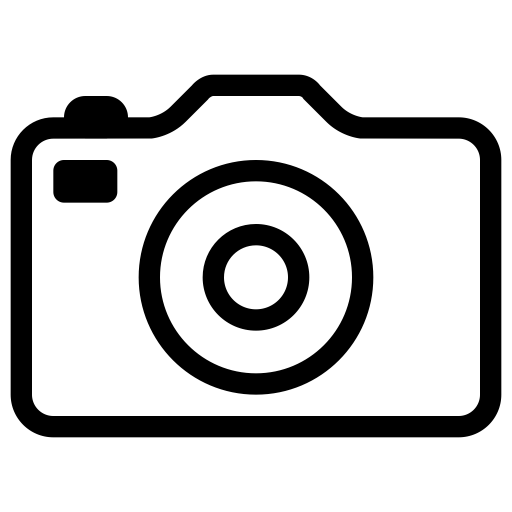
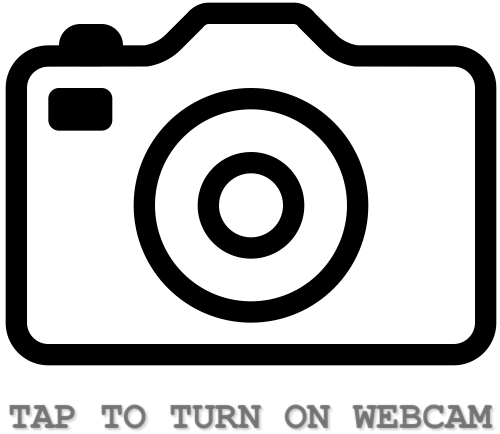
home

diff --git a/views/js/cam.js b/views/js/cam.js
@@ -5,15 +5,18 @@ function getWebcam() {
 
         navigator.mediaDevices.getUserMedia({video: true}).then(function (stream) {
             video.srcObject = stream;
-            // document.getElementsByClassName('camera')[0].remove();
+            document.getElementsByClassName('nowebcam')[0].setAttribute('style', 'display: none');
             document.getElementsByClassName('camera')[0].setAttribute('style', 'display: none');
             document.getElementById('video').setAttribute('style', 'display: block');
+            let snap = document.getElementById('snap');
             setTimeout(() =>
-                document.getElementById('snap')
-                    .setAttribute('style', 'display: inline-block'),1200);
+                snap.setAttribute('style', 'display: inline-block'),1200);
             setTimeout(() =>
                 document.getElementById('back')
                     .setAttribute('style', 'display: inline-block'),1200);
+            let images = document.getElementsByClassName('workplace')[0].getElementsByClassName('mask');
+            if (!images.length)
+                snap.disabled = true;
             video.play();
         })
     }
@@ -23,10 +26,11 @@ function turnOffWebCam() {
     let video = document.getElementById('video');
     video.srcObject.getTracks().forEach(track => track.stop());
 
+    document.getElementsByClassName('nowebcam')[0].setAttribute('style', 'display: inline-block');
     document.getElementById('video').setAttribute('style', 'display: none');
     document.getElementsByClassName('camera')[0].setAttribute('style', 'display: inline-block');
-    document.getElementById('snap').setAttribute('style', 'display: none')
-    document.getElementById('back').setAttribute('style', 'display: none')
+    document.getElementById('snap').setAttribute('style', 'display: none');
+    document.getElementById('back').setAttribute('style', 'display: none');
 
     let images = document.getElementsByClassName('workplace')[0].getElementsByClassName('mask');
     if (images.length > 0)

diff --git a/views/css/styles.css b/views/css/styles.css
@@ -34,7 +34,8 @@ a:hover { transition: 220ms; color: lightgray }
 /*smooth start effect ot choosen elements*/
 #temp_preview { animation: fade-in 0.7s linear }
 
-.menu, .enter_menu, .settings_menu, .tooltip, .avatar, .error, .message, .pic, .avatar_preview, #snap {
+.menu, .enter_menu, .settings_menu, .tooltip, .avatar, .error,
+.message, .pic, .avatar_preview, .nowebcam, .camera, #back,#snap {
     -webkit-animation: fade-in 0.3s linear; /* Safari 4+ */
     -moz-animation: fade-in 0.3s linear; /* Fx 5+ */
     -o-animation: fade-in 0.3s linear; /* Opera 12+ */
@@ -265,10 +266,10 @@ header {
 }
 
 .camera {
-    margin-top: 80px;
+    margin-top: 100px;
     margin-left: 160px;
     width: 300px;
-    height: 300px;
+    height: 280px;
     cursor: pointer;
 }
 
@@ -284,8 +285,22 @@ header {
 
 #video, #canvas { margin-left: 10px; display: none }
 #canvas { margin-top: 4px; display: none }
-#snap { margin-top: 20px; display: none }
-#back { margin-top: 20px; display: none }
+#snap {
+    margin-top: 20px;
+    margin-left: 250px;
+    display: none;
+}
+#back {
+    margin-top: 20px;
+    display: none;
+    float: right;
+}
+
+.nowebcam {
+    font-weight: bold;
+    float: right;
+    margin-right: 10px;
+}
 
 .pics{
     border-radius: 5px;

diff --git a/views/js/dragndrop.js b/views/js/dragndrop.js
@@ -27,7 +27,12 @@ function dragndrop(e) {
             newLocation.x = e.pageX - 10;
         }
         if (e.pageY > limits.bottom) {
-                newLocation.y = limits.bottom - 10;
+                newLocation.y = limits.bottom - 60;
+                object.remove();
+            let images = document.getElementsByClassName('workplace')[0]
+                .getElementsByClassName('mask');
+            if (!images.length)
+                snap.disabled = true;
         } else if (e.pageY > limits.top) {
             newLocation.y = e.pageY - 10;
         }
@@ -75,11 +80,14 @@ function create_clone(e) {
         snap.disabled = false;
     }
     let new_mask = document.createElement('img');
+    let parent = document.getElementsByClassName('workplace')[0];
+    let images = parent.getElementsByClassName('mask');
+    if (images.length > 9)
+        return;
     new_mask.setAttribute('src', e.target.src);
     new_mask.setAttribute('class', 'mask');
     new_mask.setAttribute('style', 'position: absolute');
     new_mask.addEventListener('mousedown', dragndrop);
-    let parent = document.getElementsByClassName('workplace')[0];
     parent.insertBefore(new_mask, parent.firstChild);
 }
 

diff --git a/views/workshop/workshop.php b/views/workshop/workshop.php
@@ -8,6 +8,9 @@
 			<button id="back" class="submit_button" onclick="turnOffWebCam()">back</button>
 			<canvas id="canvas" style="visibility: hidden" width="620" height="480"></canvas>
         </div>
+		<div class="nowebcam">
+			<span>if you don't have a webcam upload your own image <span><button class="submit_button">upload</button>
+		</div>
     </div>
     <div class="masks">
         <ul>

diff --git a/models/modelWorkshop.php b/models/modelWorkshop.php
@@ -15,7 +15,7 @@
 
 			$i = 0;
 			foreach ($data as $elem) {
-				$mask = imagecreatefrompng($elem['link']);
+				@$mask = imagecreatefrompng($elem['link']);
 				$maskWidthInitial = imagesx($mask);
 				$maskHeightInitial = imagesy($mask);
 				$maskWidthCaptured = $elem['sizeW'];
